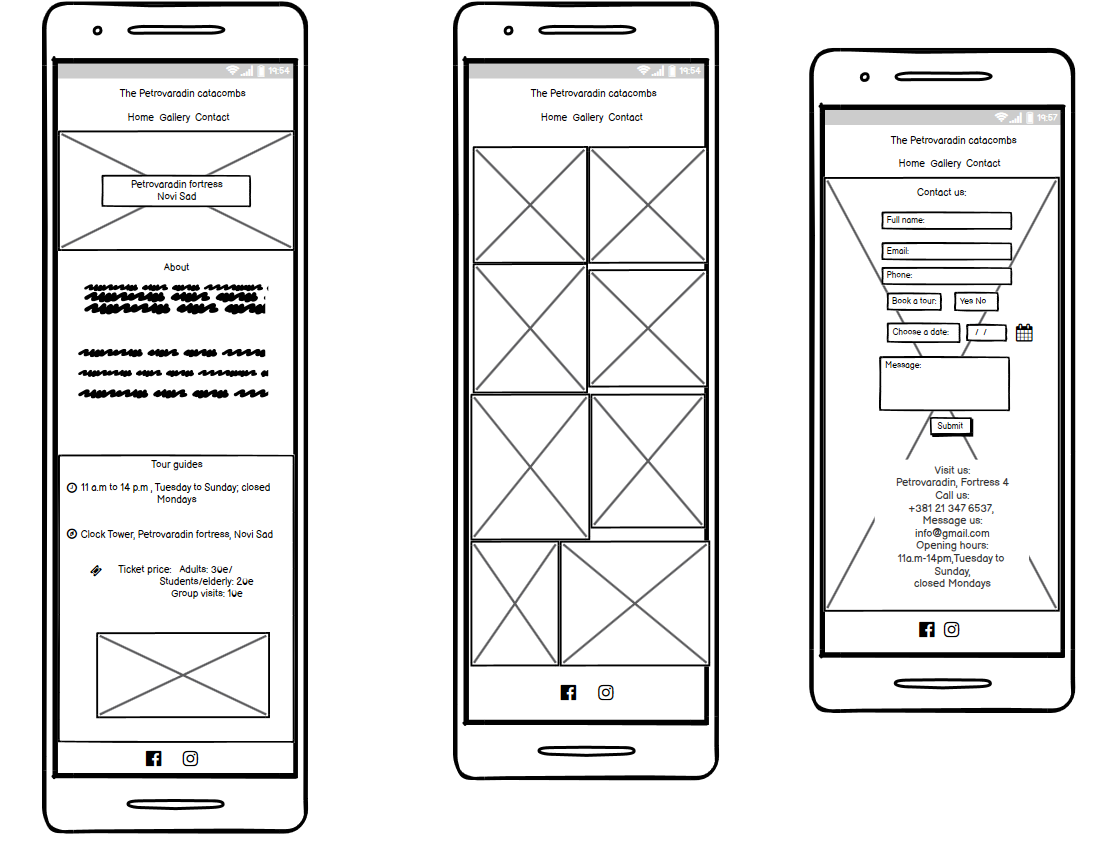
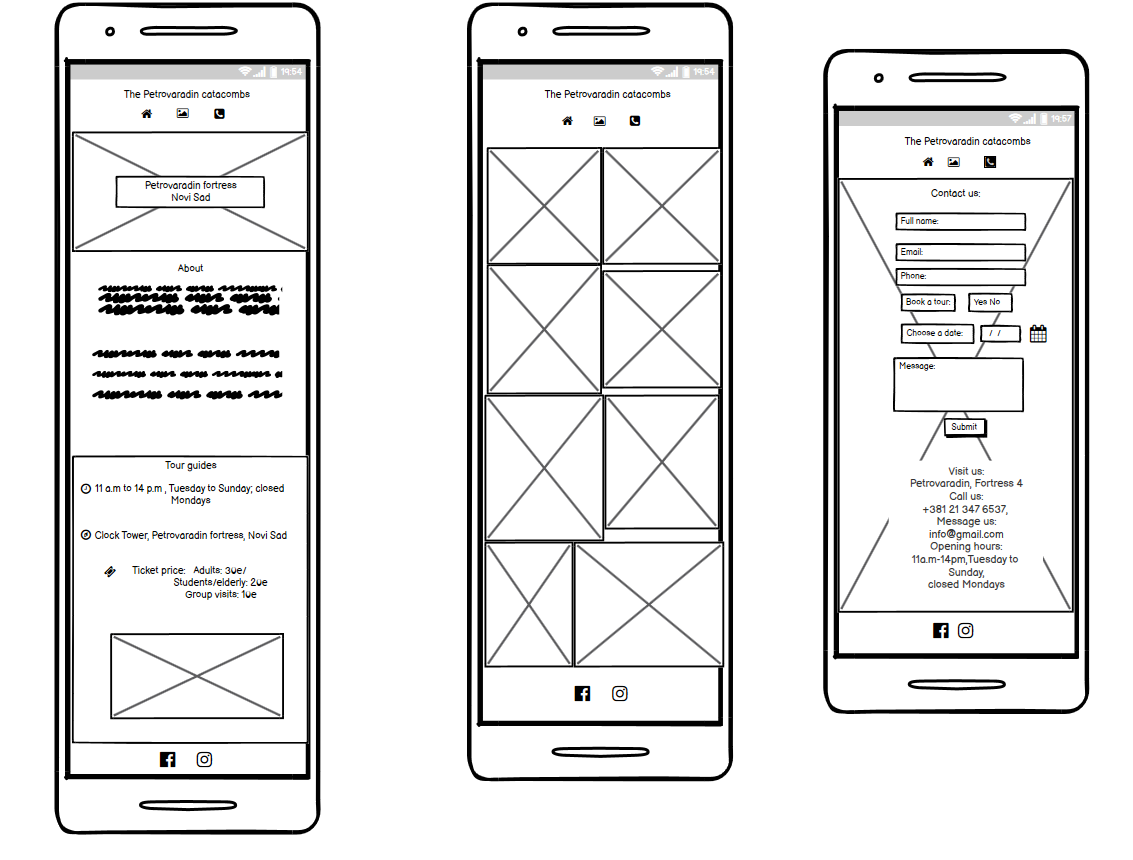
Update wireframes

diff --git a/assets/css/style.css b/assets/css/style.css
@@ -259,18 +259,17 @@ input {
         margin-left: 50px;
     }
 }
+
 /* Reduce gap between nav bar and gallery on screens larger than 515px */
-@media  screen and (min-width: 515px) { 
+@media screen and (min-width: 515px) {
     .gallery {
         padding: 1.5rem 1rem 1rem 1rem;
     }
 }
 
 /* Display only icons on navbar on smaller screens */
-@media screen and (max-width: 400px) {
-    
+@media screen and (max-width: 480px) {
     .nav-list span {
         display: none;
     }
 }
-
